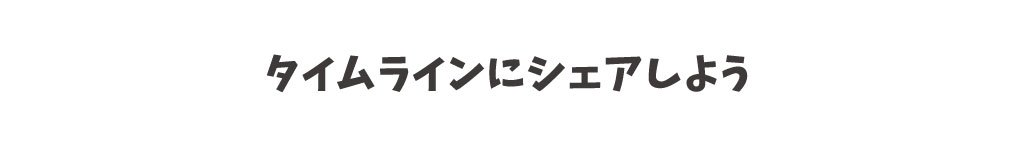
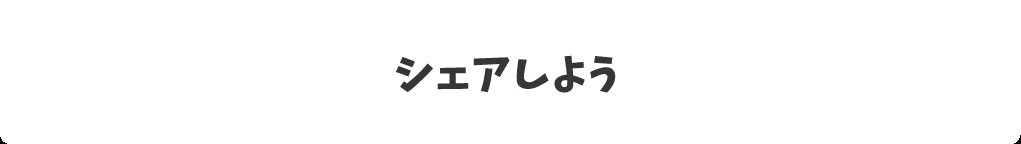
twitterでshareするように

Changed region(s): [[0.2429, 0.3889, 0.7591, 0.6389], [0.9716, 0.9722, 1.0, 1.0], [0.0, 0.9722, 0.0304, 1.0]]

diff --git a/lib/line_client.rb b/lib/line_client.rb
@@ -248,7 +248,7 @@ class LineClient
       @client.rich_message.set_action(
         SHARE: {
           text: 'シェアしよう',
-          link_url: "#{HOST}/share/#{recipe.rid}",
+          link_url: "https://rocky-wildwood-42894.herokuapp.com/twitter/#{recipe.name}/#{recipe.rid}",
           type: 'web'        
         }
       ).add_listener(
